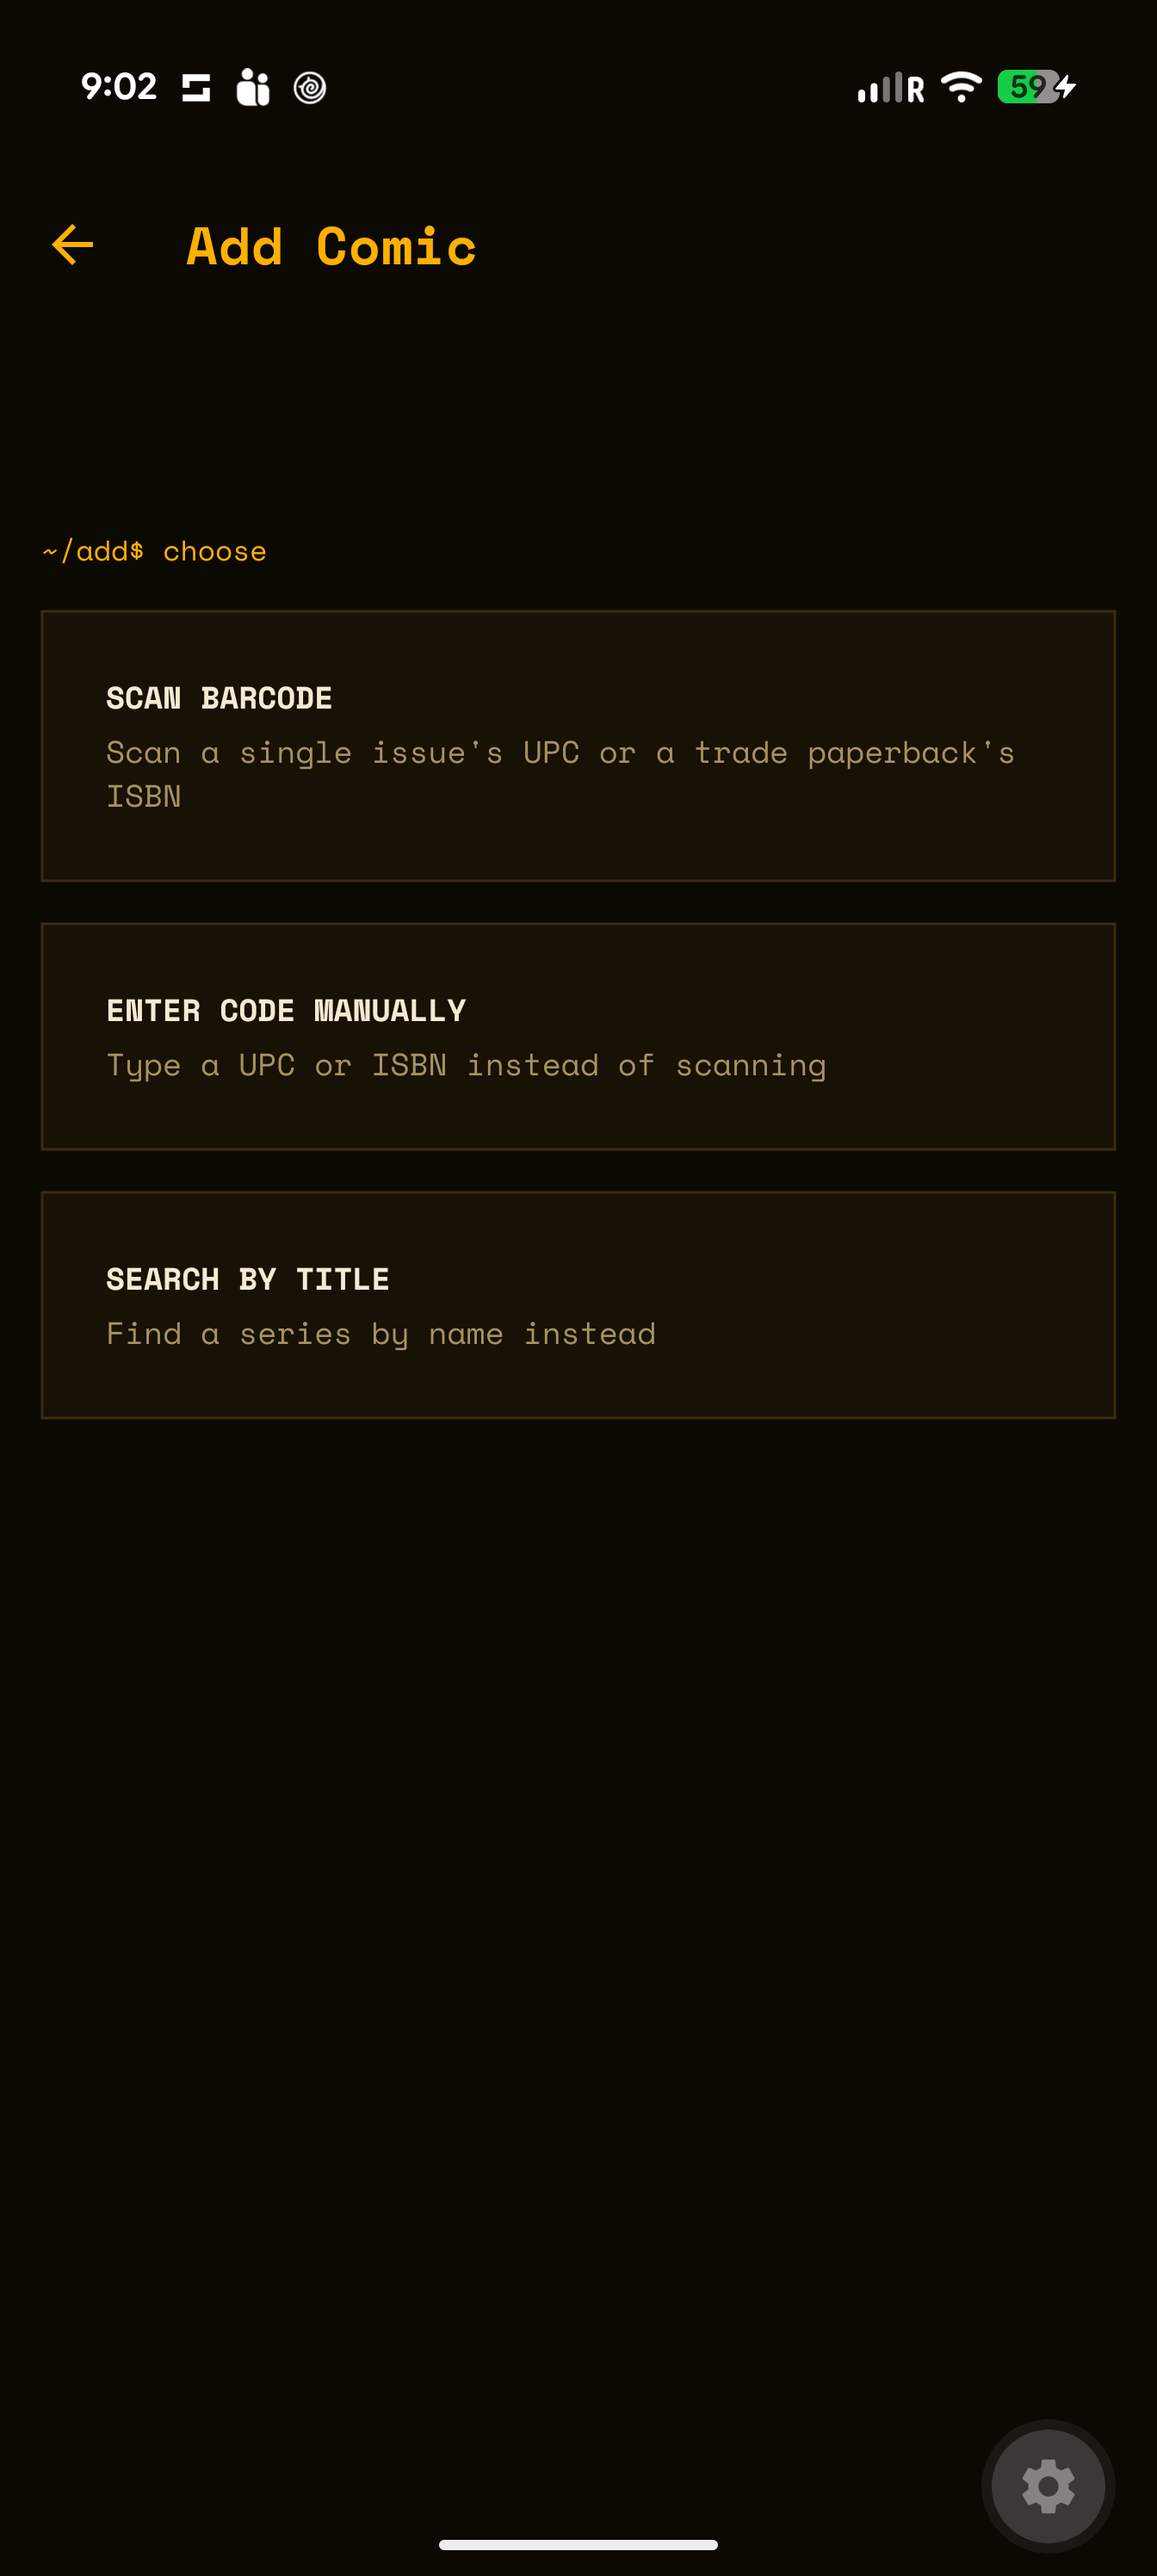
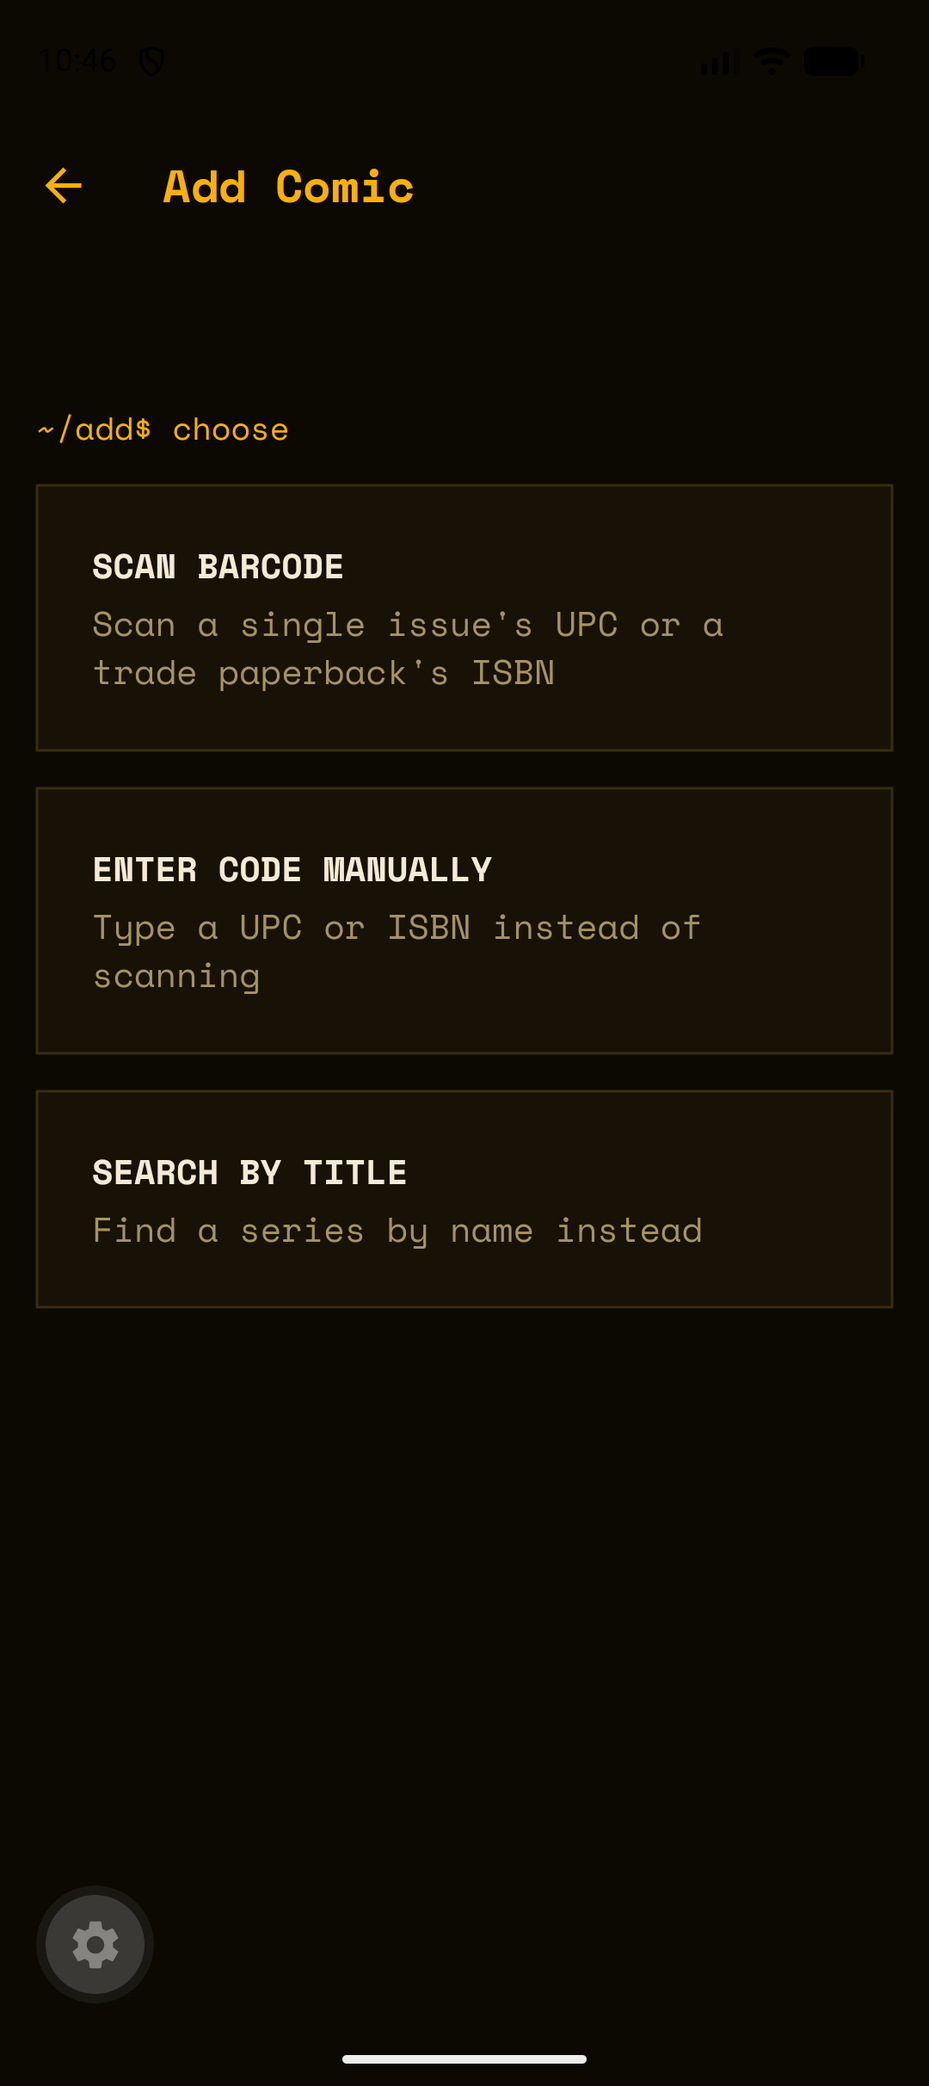
Refresh screenshots and docs copy for the backlog and Comic Box
The screenshots showed the old two-state app: a "Comics Read" tab that no
longer exists and a collection where every comic was either reading or read.
Recaptured the whole set against a fuller library (7 comics across all three
states, including a TPB and two multi-issue series), so the By Series shot now
shows what the backlog actually buys you — one series holding a read issue and
an unread one side by side.

comics-read-by-series.png is replaced by comic-box-by-series.png, and the
README gains Comic Box shots for the All and Backlog filters.

The landing page copy follows the same change: the hero, feature cards, and
meta descriptions describe filing into a backlog rather than adding straight
to Current Reading.

docs/index.html also carries responsive-layout work that was sitting
uncommitted in the tree beforehand — safe-area gutters, longhand padding on
.wrap elements, and a wrapping nav row.

diff --git a/docs/index.html b/docs/index.html
@@ -2,13 +2,13 @@
 <html lang="en">
 <head>
 <meta charset="utf-8" />
-<meta name="viewport" content="width=device-width, initial-scale=1" />
+<meta name="viewport" content="width=device-width, initial-scale=1, viewport-fit=cover" />
 <title>Longbox — a terminal for your comics</title>
-<meta name="description" content="Longbox is a personal comic-reading tracker for Android and iOS. Scan or search a comic, track what you're reading, and mark it as read — Longbox checks the real next issue for you and offers to add it." />
+<meta name="description" content="Longbox is a personal comic-reading tracker for Android and iOS. Scan or search a comic into your backlog, track what you're reading, and mark it as read — Longbox checks the real next issue for you and offers to add it." />
 <link rel="icon" type="image/svg+xml" href="assets/longbox-mark.svg" />
 <link rel="icon" type="image/png" href="assets/favicon-32.png" sizes="32x32" />
 <meta property="og:title" content="Longbox — a terminal for your comics" />
-<meta property="og:description" content="Scan a comic, track what you're reading, mark it as read. Longbox checks the real next issue for you. No spreadsheet." />
+<meta property="og:description" content="Scan a comic into your backlog, track what you're reading, mark it as read. Longbox checks the real next issue for you. No spreadsheet." />
 <meta property="og:image" content="assets/longbox-mark.png" />
 <style>
   @font-face {
@@ -37,6 +37,8 @@
     --success: #43d17a;
     --danger: #f2564b;
     --max: 1040px;
+    --gutter: 24px;
+    --section-y: 56px;
   }
 
   * { box-sizing: border-box; }
@@ -49,6 +51,7 @@
     color: var(--text);
     font-family: 'Space Mono', ui-monospace, monospace;
     -webkit-font-smoothing: antialiased;
+    -webkit-text-size-adjust: 100%;
     line-height: 1.6;
     overflow-x: hidden;
   }
@@ -60,7 +63,11 @@
   .wrap {
     max-width: var(--max);
     margin: 0 auto;
-    padding: 0 24px;
+    padding: 0 var(--gutter);
+    /* The 0px fallbacks are required: an unset env() with no fallback is
+       invalid at computed-value time and would zero the padding entirely. */
+    padding-left: max(var(--gutter), env(safe-area-inset-left, 0px));
+    padding-right: max(var(--gutter), env(safe-area-inset-right, 0px));
   }
 
   .eyebrow {
@@ -79,7 +86,10 @@
     display: flex;
     align-items: center;
     justify-content: space-between;
-    padding: 18px 0;
+    /* Longhands only — these elements are also .wrap, and a `padding`
+       shorthand here would clobber .wrap's horizontal gutter. */
+    padding-top: 18px;
+    padding-bottom: 18px;
   }
   .brand {
     display: flex;
@@ -94,16 +104,21 @@
   .nav-links a { text-decoration: none; color: var(--text-muted); }
   .nav-links a:hover { color: var(--accent); }
 
+  /* Nav links stay reachable on small screens: the row becomes a
+     horizontally scrollable strip rather than being hidden. */
+  .nav-links::-webkit-scrollbar { display: none; }
+
   /* ---------- Hero ---------- */
   .hero {
-    padding: 72px 0 56px;
+    padding-top: 72px;
+    padding-bottom: 56px;
     display: grid;
     grid-template-columns: 1.1fr 0.9fr;
     gap: 48px;
     align-items: center;
   }
   .hero h1 {
-    font-size: 42px;
+    font-size: clamp(26px, 5.2vw, 42px);
     line-height: 1.15;
     margin: 14px 0 20px;
     letter-spacing: 0.01em;
@@ -142,9 +157,9 @@
   .hero-mark svg { width: 100%; height: auto; max-width: 240px; }
 
   /* ---------- Screen frames (showcase) ---------- */
-  section { padding: 56px 0; }
+  section { padding: var(--section-y) 0; }
   section.bordered-top { border-top: 1px solid var(--border); }
-  h2 { font-size: 22px; margin: 8px 0 32px; letter-spacing: 0.01em; }
+  h2 { font-size: clamp(18px, 3vw, 22px); margin: 8px 0 32px; letter-spacing: 0.01em; }
 
   .screens {
     display: grid;
@@ -229,15 +244,87 @@
   footer a:hover { color: var(--accent); }
   .footer-links { display: flex; gap: 20px; }
 
-  @media (max-width: 760px) {
-    .hero { grid-template-columns: 1fr; padding-top: 48px; }
+  /* ---------- Tablet (landscape/large portrait) ---------- */
+  @media (max-width: 1024px) {
+    :root { --gutter: 20px; --section-y: 44px; }
+    .hero { padding-top: 56px; padding-bottom: 44px; gap: 32px; }
+    .hero-mark { padding: 28px; }
+    .hero-mark svg { max-width: 200px; }
+    .stack-row { grid-template-columns: 170px 1fr; }
+  }
+
+  /* ---------- Tablet portrait (iPad is 768–834 — above the phone
+     breakpoint, so it needs its own step or the hero stays cramped) ---------- */
+  @media (max-width: 900px) {
+    :root { --section-y: 40px; }
+    .hero {
+      grid-template-columns: 1fr;
+      padding-top: 40px;
+      padding-bottom: 36px;
+      gap: 28px;
+    }
+    /* Mark leads on narrow screens — it reads as a logo, not a sidebar. */
     .hero-mark { order: -1; padding: 24px; }
     .hero-mark svg { max-width: 160px; }
-    .hero h1 { font-size: 30px; }
-    .screens { grid-template-columns: 1fr; }
+    .hero h1 { font-size: clamp(26px, 4.4vw, 36px); }
+    .hero p { font-size: 14px; margin-bottom: 24px; }
+    h2 { margin-bottom: 24px; }
+
+    /* Keep the nav usable instead of hiding it: brand on top, links
+       below as a scrollable strip that never forces the page wider.
+       The single-row nav starts clipping its last link before 900px. */
+    .nav-row {
+      flex-direction: column;
+      align-items: flex-start;
+      gap: 12px;
+      padding-top: 14px;
+      padding-bottom: 14px;
+    }
+    .brand { font-size: 16px; }
+    .brand svg { width: 24px; height: 24px; }
+    .nav-links {
+      width: 100%;
+      gap: 18px;
+      font-size: 12px;
+      overflow-x: auto;
+      scrollbar-width: none;
+      -webkit-overflow-scrolling: touch;
+    }
+    .nav-links a { white-space: nowrap; padding: 4px 0; }
+  }
+
+  /* ---------- Large phone / small tablet: two-up grids collapse.
+     Held back to 640px so tablet portrait keeps its 2-column showcase. ---------- */
+  @media (max-width: 640px) {
+    .screens { grid-template-columns: 1fr; gap: 16px; }
+    /* Phone screenshots shouldn't stretch past their natural width. */
+    .screen { max-width: 420px; width: 100%; margin: 0 auto; }
     .features { grid-template-columns: 1fr; }
-    .stack-row { grid-template-columns: 1fr; gap: 4px; }
-    .nav-links { display: none; }
+    .stack-row { grid-template-columns: 1fr; gap: 4px; padding: 14px 0; }
+  }
+
+  /* ---------- Phone ---------- */
+  @media (max-width: 480px) {
+    :root { --gutter: 16px; --section-y: 32px; }
+    .hero { padding-top: 32px; padding-bottom: 28px; }
+    .hero-mark { padding: 20px; }
+    .hero-mark svg { max-width: 128px; }
+    .eyebrow { font-size: 11px; }
+
+    /* Full-bleed buttons give a comfortable tap target one-handed. */
+    .cta-row { gap: 10px; }
+    .btn {
+      flex: 1 1 100%;
+      text-align: center;
+      padding: 15px 18px;
+    }
+
+    .screen-bar { padding: 8px 10px; font-size: 9px; gap: 8px; }
+    .feature { padding: 18px; }
+    .code-block { padding: 14px; font-size: 12px; }
+    .req { font-size: 12px; }
+    footer { padding: 24px 0 32px; }
+    .footer-links { gap: 16px; }
   }
 </style>
 </head>
@@ -268,9 +355,9 @@
     <h1>Scan a comic. Track what's next.</h1>
     <p>
       Longbox is a personal comic-reading tracker for Android and iOS. Scan a barcode or search
-      by title, and it tracks what you're currently reading — pulling real issue data (cover,
-      release date, issue number) from a live comic database instead of a spreadsheet you forget
-      to update.
+      by title to file a comic in your backlog, then move it through reading and read — pulling
+      real issue data (cover, release date, issue number) from a live comic database instead of a
+      spreadsheet you forget to update.
     </p>
     <div class="cta-row">
       <a class="btn solid" href="https://github.com/peds24/comic-track">View on GitHub</a>
@@ -300,8 +387,8 @@
         <img src="screenshots/comic-detail.png" alt="Comic detail screen with Mark as Read and Remove actions" loading="lazy" />
       </div>
       <div class="screen">
-        <div class="screen-bar"><span><b>LONGBOX</b> · read.tsx</span><span>3 of 4</span></div>
-        <img src="screenshots/comics-read-by-series.png" alt="Comics Read screen grouped by series with collapsible sections" loading="lazy" />
+        <div class="screen-bar"><span><b>LONGBOX</b> · collection.tsx</span><span>3 of 4</span></div>
+        <img src="screenshots/comic-box-by-series.png" alt="Comic Box screen grouped by series with collapsible sections, showing backlog, reading, and read comics side by side" loading="lazy" />
       </div>
       <div class="screen">
         <div class="screen-bar"><span><b>LONGBOX</b> · add/index.tsx</span><span>4 of 4</span></div>
@@ -323,18 +410,18 @@
       </div>
       <div class="feature">
         <div class="prompt">02</div>
-        <h3>Current Reading</h3>
-        <p>Every active series and issue at a glance — cover, title, author, release date, issue number.</p>
+        <h3>Backlog, Reading, Read</h3>
+        <p>Owning a comic and having read it are different facts. New adds land in the Backlog; Current Reading stays honest about what's actually in your hands right now.</p>
       </div>
       <div class="feature">
         <div class="prompt">03</div>
         <h3>Mark as Read</h3>
-        <p>Checks the API for a real next issue first. Found one? You're asked whether to add it to Current Reading. Either way, the current issue moves to Comics Read.</p>
+        <p>Checks the API for a real next issue first. Found one? You're asked whether to add it to your backlog. Either way, the current issue moves to Read.</p>
       </div>
       <div class="feature">
         <div class="prompt">04</div>
-        <h3>Comics Read</h3>
-        <p>Full history with search, three sort modes (Recent, A–Z, a collapsible By Series grouping), and a Check for Next Issue button on every issue.</p>
+        <h3>Comic Box</h3>
+        <p>The whole collection in one place — filter by Backlog, Reading, or Read, search it, and sort three ways (Recent, A–Z, a collapsible By Series grouping).</p>
       </div>
     </div>
   </div>
@@ -366,7 +453,7 @@ $ npx expo start</div>
       Requires a free <a href="https://metron.cloud">Metron</a> account for the two
       <code>EXPO_PUBLIC_METRON_*</code> variables. OpenLibrary needs no credentials. Barcode
       scanning needs a physical device with a camera — the simulator/emulator can exercise every
-      other flow (search, manual entry, mark as read, read history).
+      other flow (search, manual entry, moving comics between states, the Comic Box).
     </p>
   </div>
 </section>

diff --git a/README.md b/README.md
@@ -4,9 +4,13 @@ A personal comic-reading tracker built with Expo/React Native. Scan or search fo
 
 ## Screenshots
 
-| Current Reading | Comics Read — By Series |
+| Current Reading | Comic Box — everything |
 |---|---|
-| ![Current Reading](docs/screenshots/current-reading.png) | ![Comics Read grouped by series](docs/screenshots/comics-read-by-series.png) |
+| ![Current Reading](docs/screenshots/current-reading.png) | ![Comic Box showing the whole collection](docs/screenshots/comic-box-all.png) |
+
+| Comic Box — Backlog | Comic Box — By Series |
+|---|---|
+| ![Comic Box filtered to the backlog](docs/screenshots/comic-box-backlog.png) | ![Comic Box grouped by series](docs/screenshots/comic-box-by-series.png) |
 
 | Add Comic | Comic detail |
 |---|---|
